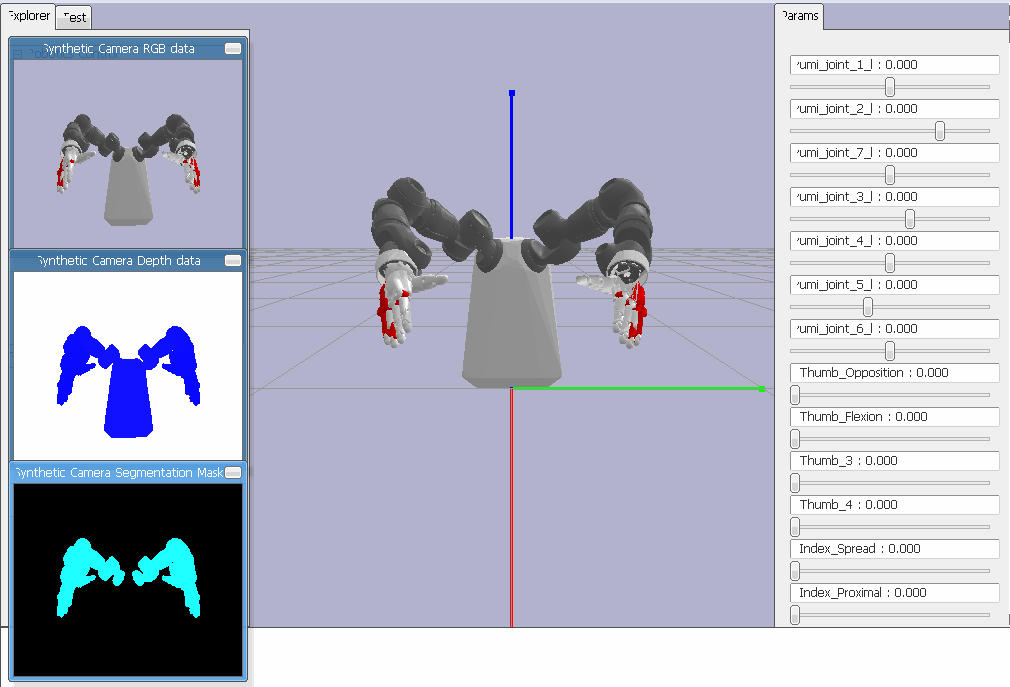
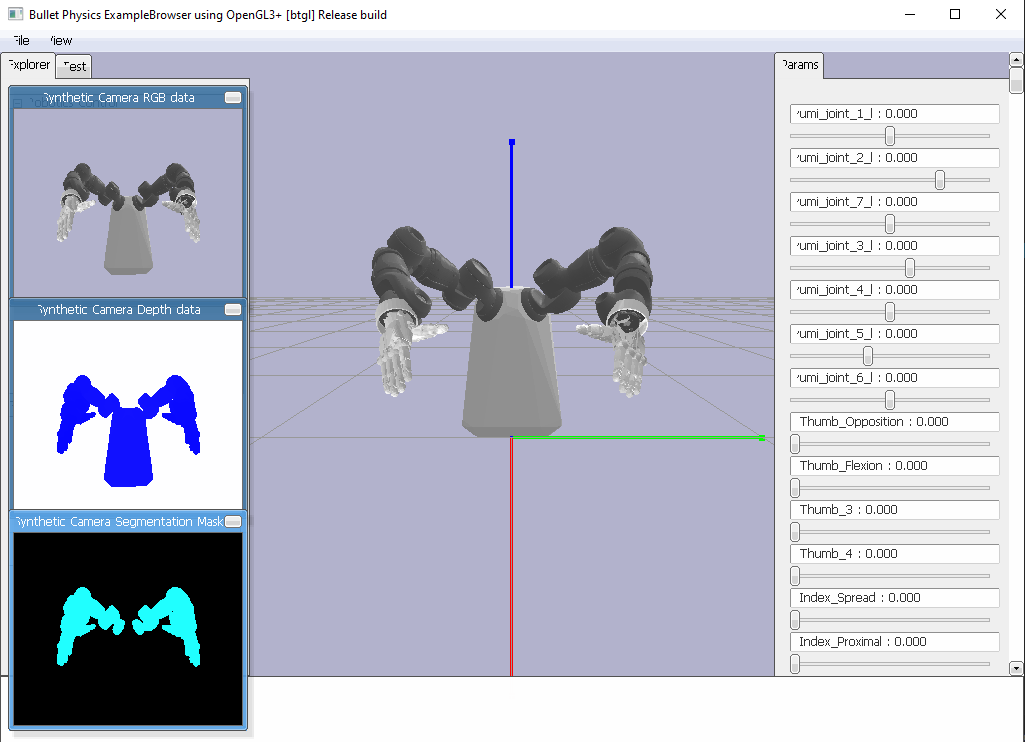
update figure

Changed region(s): [[0.0, 0.0, 1.0, 1.0], [0.9515, 0.8559, 1.0, 1.0]]

diff --git a/yumi_gym/envs/yumi_schunk_env.py b/yumi_gym/envs/yumi_schunk_env.py
@@ -50,8 +50,8 @@ class YumiSchunkEnv(gym.Env):
                 collision = True
                 for contact in p.getContactPoints(bodyA=self.yumiUid, linkIndexA=self.joint2Index[joint]):
                     print("Collision Occurred in Joint {} & Joint {}!!!".format(contact[3], contact[4]))
-                    p.changeVisualShape(self.yumiUid, contact[3], rgbaColor=[1, 0, 0, 1])
-                    p.changeVisualShape(self.yumiUid, contact[4], rgbaColor=[1, 0, 0, 1])
+                    # p.changeVisualShape(self.yumiUid, contact[3], rgbaColor=[1, 0, 0, 1])
+                    # p.changeVisualShape(self.yumiUid, contact[4], rgbaColor=[1, 0, 0, 1])
         
         self.step_counter += 1
 
